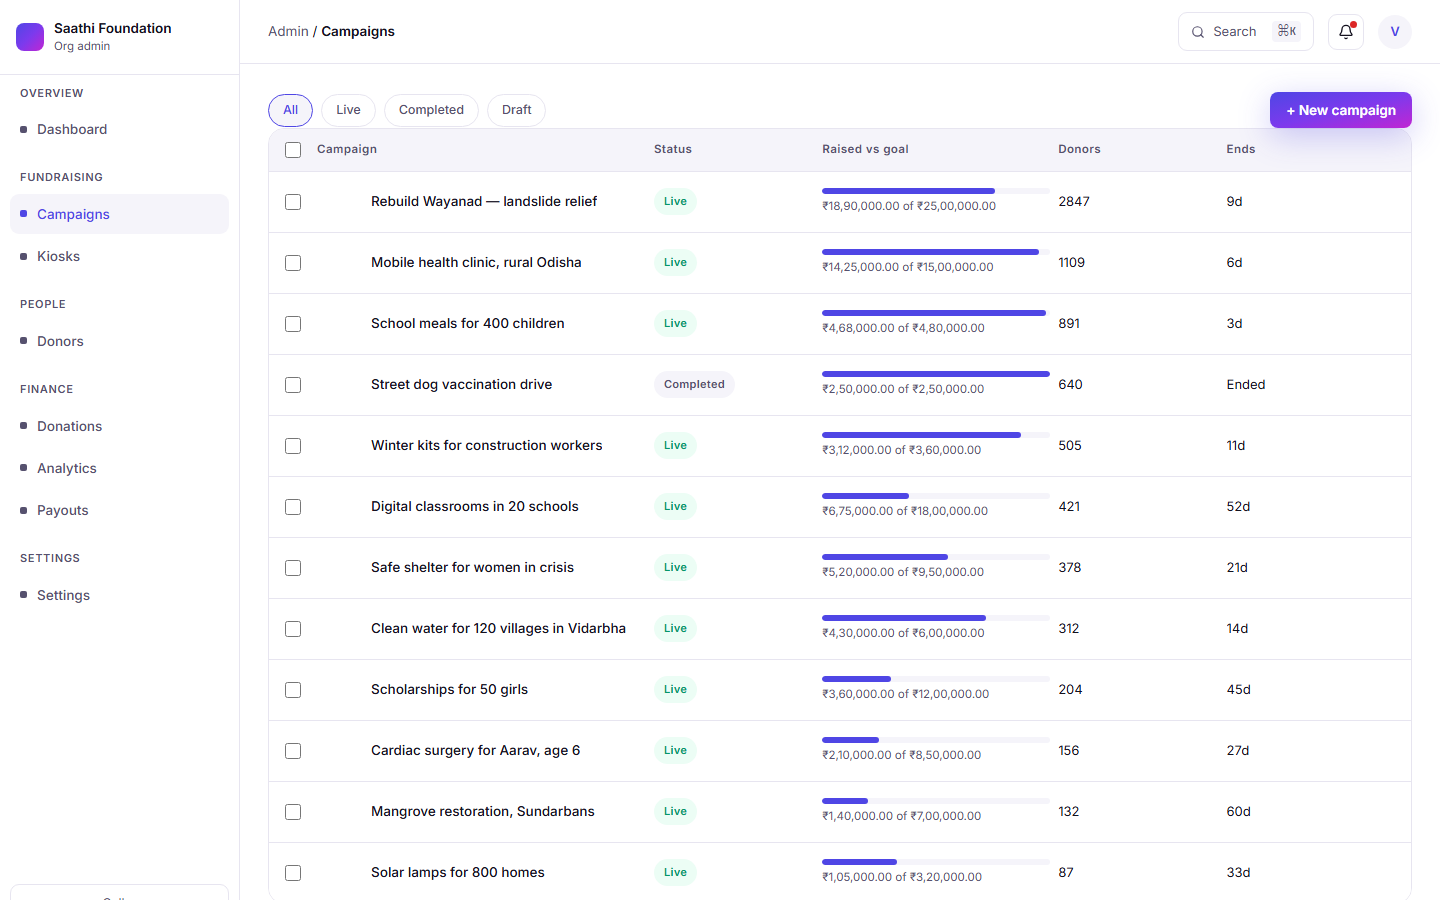
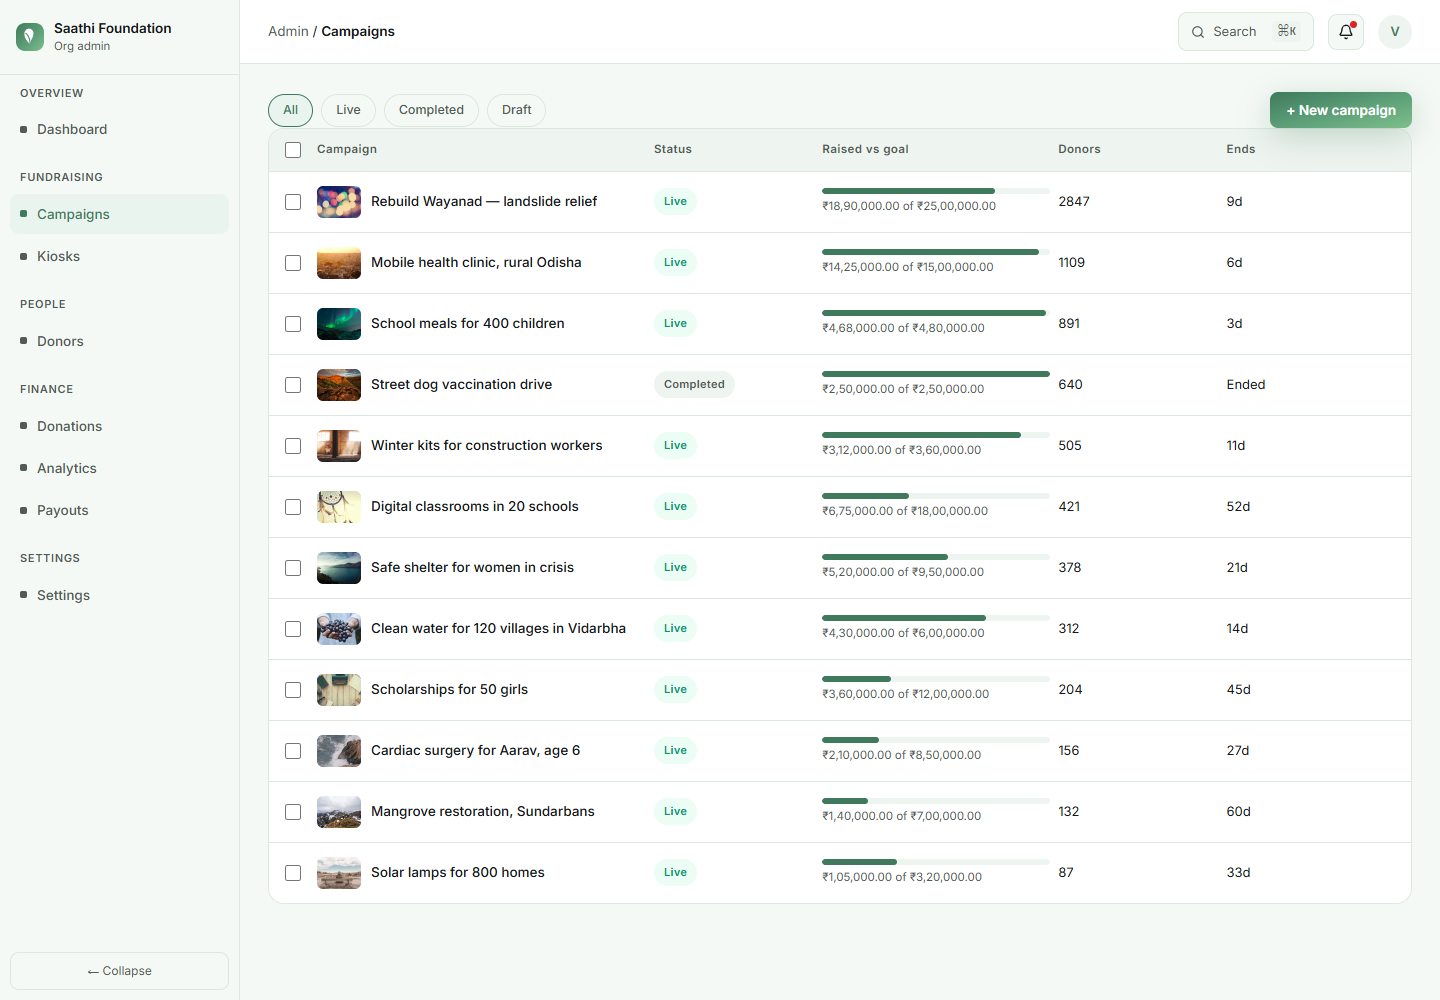
updated readme

diff --git a/README.md b/README.md
@@ -32,8 +32,7 @@ Uplifted is a donation platform that lets people fund verified causes and watch 
 
 ### On-site giving kiosks
 
-- A locked-down, touch-first kiosk mode for in-person events and physical locations — big touch targets, no keyboard or mouse needed, and a rotating "raised so far today" attract screen with a live donation feed to draw people in.
-- Browse causes by category, see a simplified campaign view, and give in a few taps: choose an amount, tap or scan to pay, optionally get an emailed receipt, and a thank-you screen that auto-resets for the next donor.
+A locked-down, touch-first kiosk mode for in-person events and physical locations — reachable straight from the main site's header (**Kiosk mode**), with no keyboard or mouse needed once inside. A rotating "raised so far today" attract screen with a live donation feed draws people in; from there, donors browse causes by category, see a simplified campaign view, and give in a few taps — choose an amount, tap or scan to pay, optionally get an emailed receipt. An idle timeout resets an abandoned session automatically, and tapping the logo — present on every kiosk screen — offers a confirm-before-you-leave prompt back to the main site.
 
 ---
 
@@ -122,6 +121,43 @@ Uplifted is a donation platform that lets people fund verified causes and watch 
 
 - **Live everywhere.** Recent gifts, campaign totals, and donor counts update in real time across the donor site, the organization dashboard, and the kiosk attract screen.
 - **Impact you can count.** The signature progress meter always shows the actual number of units funded — filters, meals, surgeries, scholarships — not just a percentage.
-- **One design language, three audiences.** The same visual system adapts from a warm public donation site to a dense operational dashboard to a locked-down touch kiosk.
+- **One design language, three audiences.** The same visual system adapts from a warm public donation site to a dense operational dashboard to a locked-down touch kiosk, all built on a shared sage-green token system with full light/dark support.
 - **Built for both hands.** Every screen — from the four-step donation flow to the admin data tables — is responsive down to a phone screen and accessible by keyboard, with visible focus states and screen-reader-friendly labels throughout.
 - **Light and dark, ₹ and $.** Every page respects the chosen theme and currency, including the kiosk, which stays permanently dark for legibility in bright public spaces.
+
+---
+
+## How it's built
+
+Uplifted is a **frontend-only** build — there's no server. A typed mock data layer stands in for a real API so the whole product experience is real and interactive today, and swaps for a live backend later without touching a single component.
+
+```
+Component  →  React Query hook  →  api service function  →  in-memory mock DB
+                                    ^^^^^^^^^^^^^^^^^^^^^
+                          the only layer a real backend replaces
+```
+
+- Every service function in `src/api/` is `async`, typed, and throws on failure — exactly like a real fetch call would, including simulated network latency.
+- Writes actually mutate the mock database, so donating moves the campaign total, the donor count, and the live ticker for real.
+- Money is stored as integer paise everywhere and only formatted at render, so currency conversion and Indian digit grouping are consistent site-wide.
+
+**Stack:** Vite · React 18 · TypeScript (strict, no `any`) · React Router v6 · TanStack Query v5 · Tailwind CSS v3 · React Hook Form + Zod · Recharts · hand-built UI primitives (no component library)
+
+**Zones:** a public donor site, a donor account dashboard, an organization admin back office, and a locked-down touch kiosk — four layouts, one shared design system, route-level code splitting so the kiosk and admin bundles never ship to a public visitor.
+
+---
+
+## Running locally
+
+```bash
+npm install
+npm run dev
+```
+
+Open `http://localhost:5173`. Any email/password combination signs in — try the donor flow at `/login` or the org back office at `/admin/login`.
+
+```bash
+npm run build     # production build
+npm run lint       # eslint
+npm run preview    # serve the production build locally
+```
